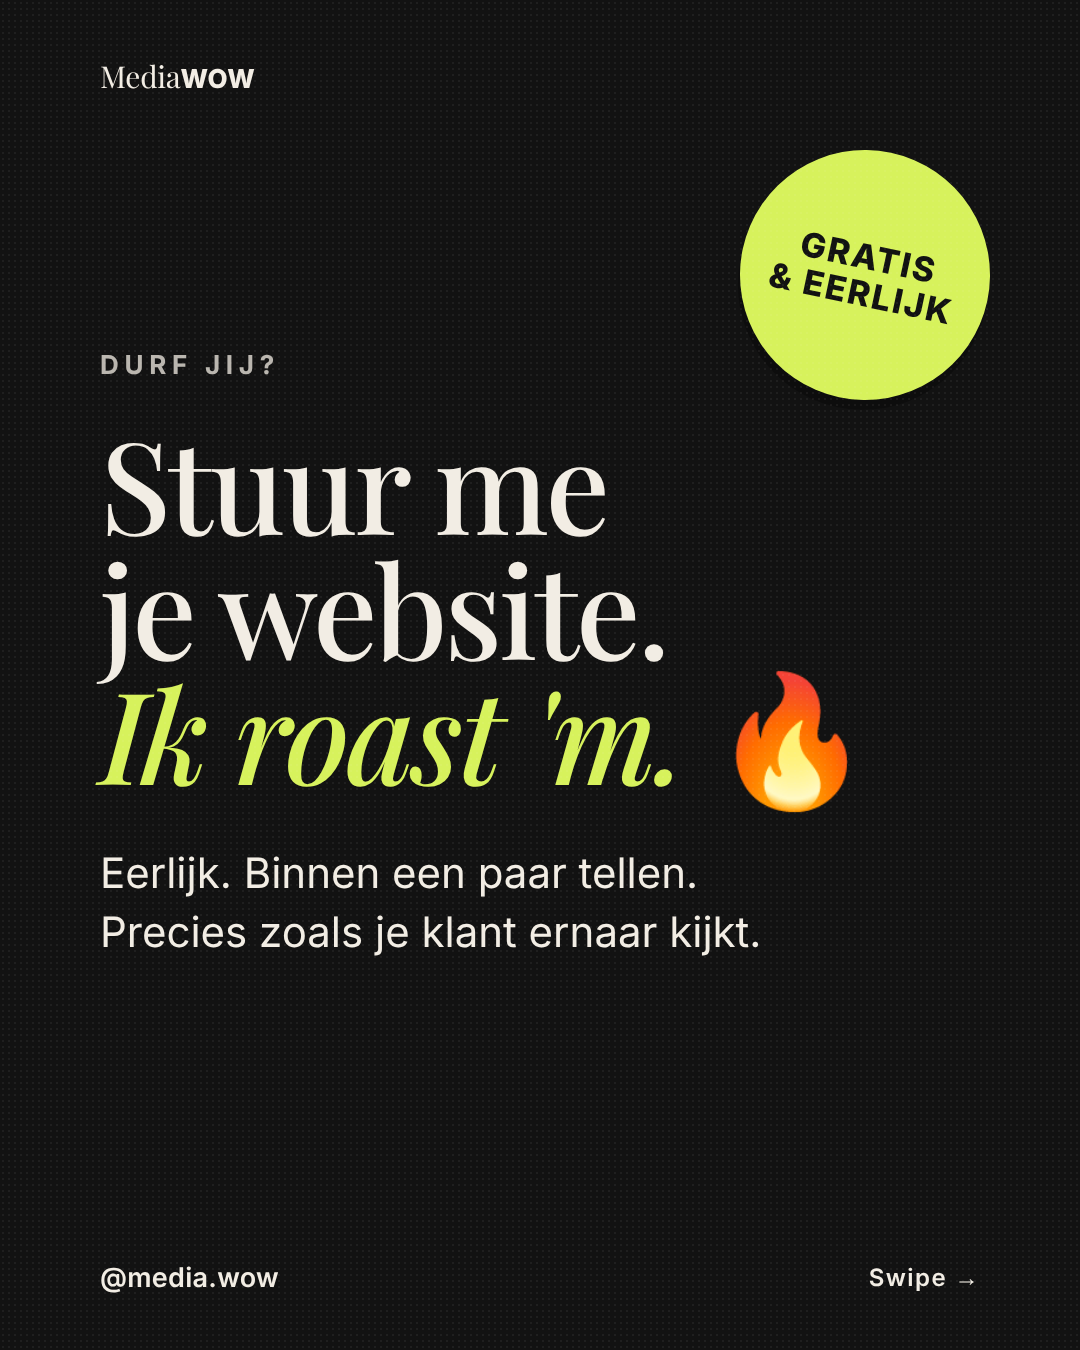
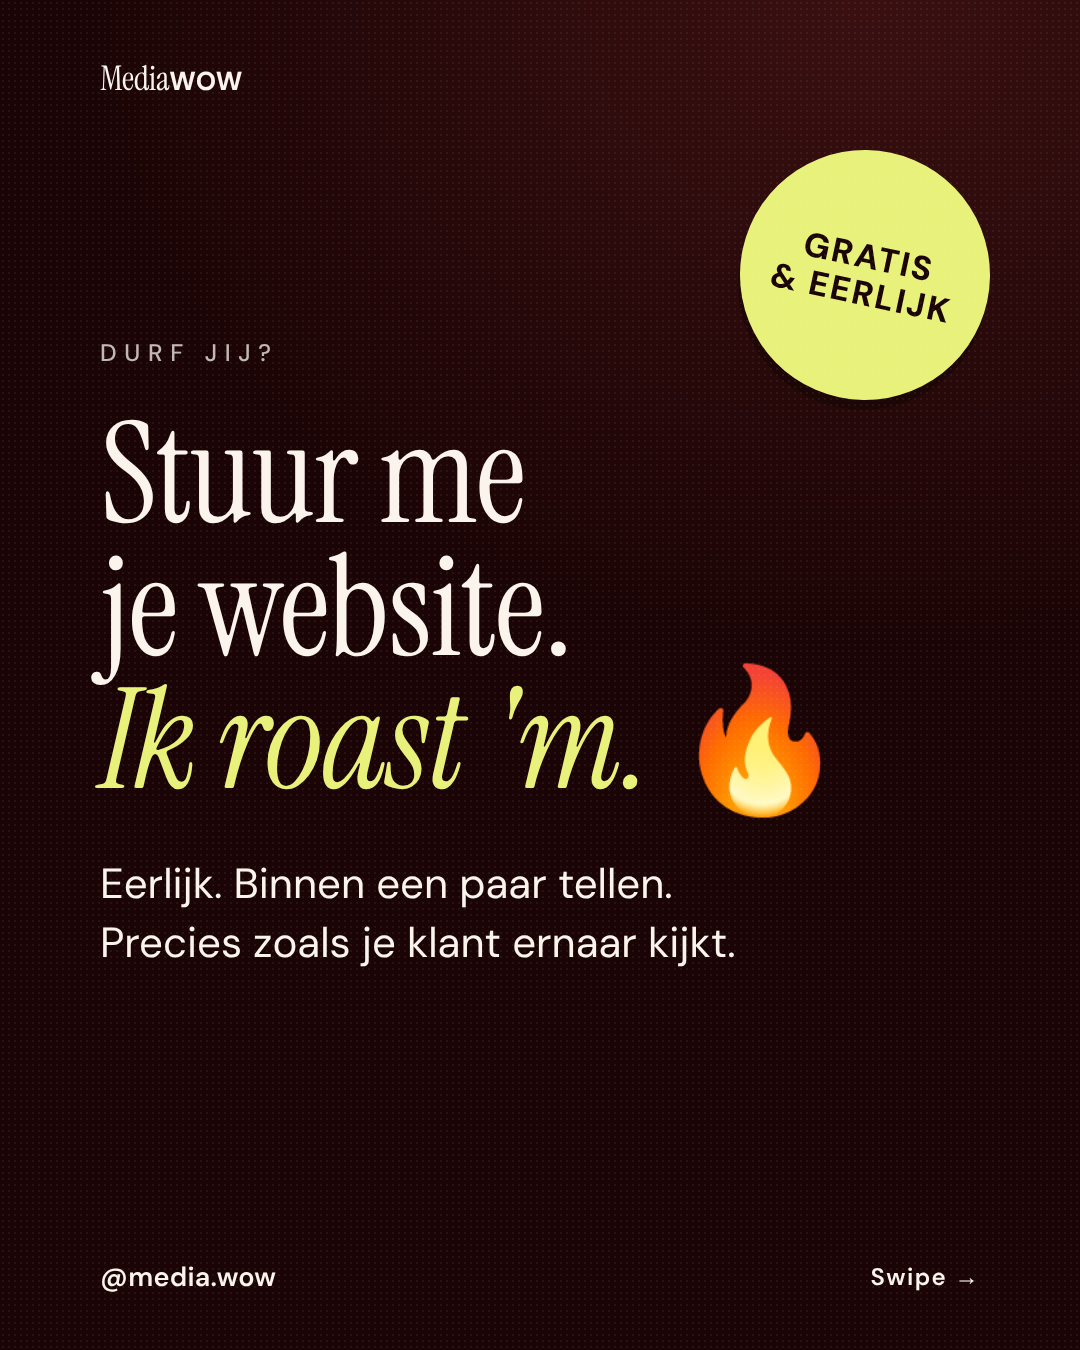
Match slides to mediawow.nl palette and typography
Claude-Session: https://claude.ai/code/session_01RBQ5c9Pv2G8CobvSf5vDwJ

diff --git a/instagram/build.js b/instagram/build.js
@@ -6,41 +6,42 @@ const path = require('path');
 const posts = require('./slides.js');
 
 const OUT = path.join(__dirname, 'week-1');
-const FONTS = 'https://fonts.googleapis.com/css2?family=Playfair+Display:ital,wght@0,400;0,500;0,700;1,400;1,500;1,700&family=Caveat:wght@600&family=Inter:wght@400;500;600;700;800&family=Space+Mono:wght@400;700&display=swap';
+const FONTS = 'https://fonts.googleapis.com/css2?family=Instrument+Serif:ital@0;1&family=Caveat:wght@600&family=DM+Sans:wght@400;500;600;700;800&family=Space+Mono:wght@400;700&display=swap';
 
 const CSS = `
-:root{--cream:#F2EDE4;--sand:#E3D8C9;--ink:#121212;--lime:#D7F25C;--taupe:#8C7660;--red:#E5484D}
+:root{--cream:#FAF4ED;--sand:#F1E8DC;--ink:#1B0405;--wine:#561C1E;--bordeaux:#3A1011;--lime:#E8F27A;--taupe:#8A7967;--red:#E5484D}
 *{margin:0;padding:0;box-sizing:border-box}
 html,body{width:1080px;height:1350px}
 .s{width:1080px;height:1350px;position:relative;padding:110px 100px 150px;display:flex;flex-direction:column;justify-content:center;
-  font-family:Inter,sans-serif;overflow:hidden}
+  font-family:'DM Sans',sans-serif;overflow:hidden}
 .light{background:var(--cream);color:var(--ink)} .sand{background:var(--sand);color:var(--ink)}
-.dark{background:var(--ink);color:var(--cream)} .lime-bg{background:var(--lime);color:var(--ink)}
+.dark{background:radial-gradient(120% 80% at 80% 0%,var(--bordeaux),var(--ink) 60%);color:var(--cream)} .lime-bg{background:var(--lime);color:var(--ink)}
 .grain:after{content:'';position:absolute;inset:0;pointer-events:none;opacity:.06;
   background-image:radial-gradient(currentColor 1px,transparent 1px);background-size:6px 6px}
-h1,h2,h3{font-family:'Playfair Display',serif;font-weight:500;letter-spacing:-.025em}
-h1.xl{font-size:128px;line-height:.98} h1.lg{font-size:96px;line-height:1.02} h1.md{font-size:80px;line-height:1.04}
-h2{font-size:72px;line-height:1.08}
+h1,h2,h3{font-family:'Instrument Serif',serif;font-weight:400;letter-spacing:-.01em}
+h1.xl{font-size:140px;line-height:.95} h1.lg{font-size:106px;line-height:1} h1.md{font-size:90px;line-height:1.02}
+h2{font-size:80px;line-height:1.05}
 em{font-style:italic}
 .lime{color:var(--lime)} .red{color:var(--red)}
 .center-t{text-align:center}
-.kicker{font-size:26px;font-weight:700;letter-spacing:.22em;text-transform:uppercase;margin-bottom:40px;opacity:.75}
+.kicker{font-size:24px;font-weight:500;letter-spacing:.32em;text-transform:uppercase;margin-bottom:40px;opacity:.75}
 .lead{font-size:42px;line-height:1.4;margin-top:48px;max-width:860px}
 .hand{font-family:Caveat,cursive;font-weight:600}
 .hand.big{font-size:58px;line-height:1.1}
-.light .hand,.sand .hand{color:var(--taupe)}
+.light .hand,.sand .hand{color:var(--wine)}
+.light h1 em,.sand h1 em,.light h3 em,.sand h3 em{color:var(--wine)}
 .hl{background:linear-gradient(transparent 58%,var(--lime) 58%,var(--lime) 92%,transparent 92%);padding:0 6px;margin:0 -6px}
 .dark .hl{color:var(--ink);background:var(--lime);padding:0 12px;border-radius:6px}
 .sticker{position:absolute;width:250px;height:250px;border-radius:50%;background:var(--lime);color:var(--ink);display:flex;align-items:center;justify-content:center;
   text-align:center;font-weight:800;font-size:34px;line-height:1.1;letter-spacing:.06em;text-transform:uppercase;transform:rotate(12deg);box-shadow:0 10px 0 rgba(0,0,0,.25)}
 .pill{align-self:flex-start;background:var(--ink);color:var(--lime);font-weight:700;font-size:30px;letter-spacing:.14em;text-transform:uppercase;padding:18px 34px;border-radius:100px;margin-bottom:50px;transform:rotate(-3deg)}
-.count{font-family:'Playfair Display',serif;font-style:italic;font-size:250px;line-height:1;letter-spacing:-.04em;margin:10px 0 50px}
-.count span{color:var(--taupe);font-size:.5em}
+.count{font-family:'Instrument Serif',serif;font-style:italic;font-size:250px;line-height:1;letter-spacing:-.04em;margin:10px 0 50px}
+.count span{color:var(--wine);font-size:.5em}
 .steps{display:flex;flex-direction:column;gap:30px}
 .step{display:flex;gap:34px;align-items:center;background:var(--cream);border-radius:28px;padding:38px 40px;font-size:42px;line-height:1.3;font-weight:500}
-.step b{flex:0 0 96px;height:96px;border-radius:50%;background:var(--ink);color:var(--lime);display:flex;align-items:center;justify-content:center;font-family:'Playfair Display';font-style:italic;font-size:56px}
+.step b{flex:0 0 96px;height:96px;border-radius:50%;background:var(--wine);color:var(--lime);display:flex;align-items:center;justify-content:center;font-family:'Instrument Serif';font-style:italic;font-size:56px}
 .checks{display:flex;flex-direction:column;gap:22px;margin-top:20px}
-.checks div{position:relative;font-size:44px;line-height:1.25;padding:26px 0 26px 98px;border-bottom:2px solid rgba(128,118,104,.35)}
+.checks div{position:relative;font-size:44px;line-height:1.25;padding:26px 0 26px 98px;border-bottom:2px solid rgba(138,121,103,.35)}
 .checks div:before{content:'✓';position:absolute;left:0;top:50%;margin-top:-35px;width:70px;height:70px;border-radius:50%;background:var(--lime);color:var(--ink);display:flex;align-items:center;justify-content:center;font-weight:800;font-size:38px}
 .dark-checks div{border-color:rgba(242,237,228,.2)}
 .comment-box{margin-top:90px;background:#fff;border-radius:100px;padding:26px 34px;display:flex;align-items:center;gap:26px;box-shadow:0 20px 50px rgba(0,0,0,.15);font-size:46px}
@@ -68,28 +69,28 @@ em{font-style:italic}
 .typing i{width:14px;height:14px;border-radius:50%;background:#aaa}
 .qa{display:flex;flex-direction:column;gap:22px}
 .qa div{display:grid;grid-template-columns:330px 1fr;gap:24px;align-items:center;background:#fff;border-radius:26px;padding:30px 34px}
-.qa .q{font-family:'Playfair Display';font-style:italic;font-size:42px}
+.qa .q{font-family:'Instrument Serif';font-style:italic;font-size:42px}
 .qa .a{font-size:34px;line-height:1.3;font-weight:500;padding-left:24px;border-left:5px solid var(--lime)}
 .words{display:flex;gap:22px;margin-top:60px;flex-wrap:wrap}
 .words span{background:var(--lime);color:var(--ink);font-weight:700;font-size:46px;padding:16px 30px;border-radius:16px}
 .words span:nth-child(2){transform:rotate(-3deg)} .words span:nth-child(3){transform:rotate(2deg)}
 /* flags */
 .flags-bg{position:absolute;top:90px;right:70px;font-size:120px;transform:rotate(10deg);letter-spacing:-.2em}
-.flag{display:flex;gap:34px;align-items:flex-start;padding:46px 0;border-bottom:2px solid rgba(128,118,104,.35)}
+.flag{display:flex;gap:34px;align-items:flex-start;padding:46px 0;border-bottom:2px solid rgba(138,121,103,.35)}
 .flag:last-child{border:0}
 .flag>span{font-size:96px;line-height:1}
-.flag h3{font-size:64px;line-height:1.08}
+.flag h3{font-size:72px;line-height:1.04}
 .flag p{font-size:36px;line-height:1.4;margin-top:20px;opacity:.75}
 /* A/B */
 .ab{display:flex;gap:44px;justify-content:center;margin-top:50px}
 .ab-col{position:relative}
-.ab-tag{position:absolute;top:-30px;left:-24px;z-index:2;width:96px;height:96px;border-radius:50%;background:var(--ink);color:var(--lime);font-family:'Playfair Display';font-style:italic;font-size:58px;display:flex;align-items:center;justify-content:center}
+.ab-tag{position:absolute;top:-30px;left:-24px;z-index:2;width:96px;height:96px;border-radius:50%;background:var(--ink);color:var(--lime);font-family:'Instrument Serif';font-style:italic;font-size:58px;display:flex;align-items:center;justify-content:center}
 .site-a{padding:60px 22px;font-family:'Times New Roman',serif;color:#333}
 .sa-nav{font-size:22px;color:#00e;text-decoration:underline;margin-bottom:22px}
 .site-a p{font-size:17px;line-height:1.45;text-align:justify}
 .site-a u{display:block;margin-top:20px;color:#00e;font-size:17px}
 .site-b{height:100%;display:flex;flex-direction:column}
-.sb-hero{height:380px;background:linear-gradient(160deg,#5b4636,#c49a6c 60%,#2b2118);display:flex;align-items:flex-end;padding:26px;color:#fff;font-family:'Playfair Display';font-style:italic;font-size:30px}
+.sb-hero{height:380px;background:linear-gradient(160deg,#5b4636,#c49a6c 60%,#2b2118);display:flex;align-items:flex-end;padding:26px;color:#fff;font-family:'Instrument Serif';font-style:italic;font-size:30px}
 .sb-btn{margin:26px;background:var(--ink);color:#fff;text-align:center;border-radius:100px;padding:24px;font-weight:700;font-size:24px}
 .sb-chips{display:flex;gap:10px;padding:0 22px;flex-wrap:wrap}
 .sb-chips span{border:1.5px solid #ccc;border-radius:100px;padding:10px 16px;font-size:18px;font-weight:600}
@@ -112,8 +113,9 @@ em{font-style:italic}
 .notif b{font-size:25px} .notif small{font-size:22px;color:#666}
 .notif p{grid-column:1/3;font-size:27px;line-height:1.3;margin-top:4px}
 .l-empty{margin-top:120px;font-size:30px;opacity:.75}
-.mark{position:absolute;top:56px;left:100px;font-family:'Playfair Display';font-size:30px;letter-spacing:-.01em}
-.mark b{font-family:Inter;font-weight:800;font-size:26px;letter-spacing:.02em}
+.mark{position:absolute;top:56px;left:100px;font-family:'Instrument Serif';font-size:30px;letter-spacing:-.01em}
+.mark b{font-family:'DM Sans';font-weight:800;font-size:26px;letter-spacing:.02em}
+.mark{font-size:34px}
 .foot{position:absolute;z-index:5;left:100px;right:100px;bottom:56px;display:flex;justify-content:space-between;align-items:center;font-size:24px;font-weight:600;letter-spacing:.06em}
 .foot .h{font-size:27px;letter-spacing:.01em}
 .foot .dots{display:flex;gap:10px}
